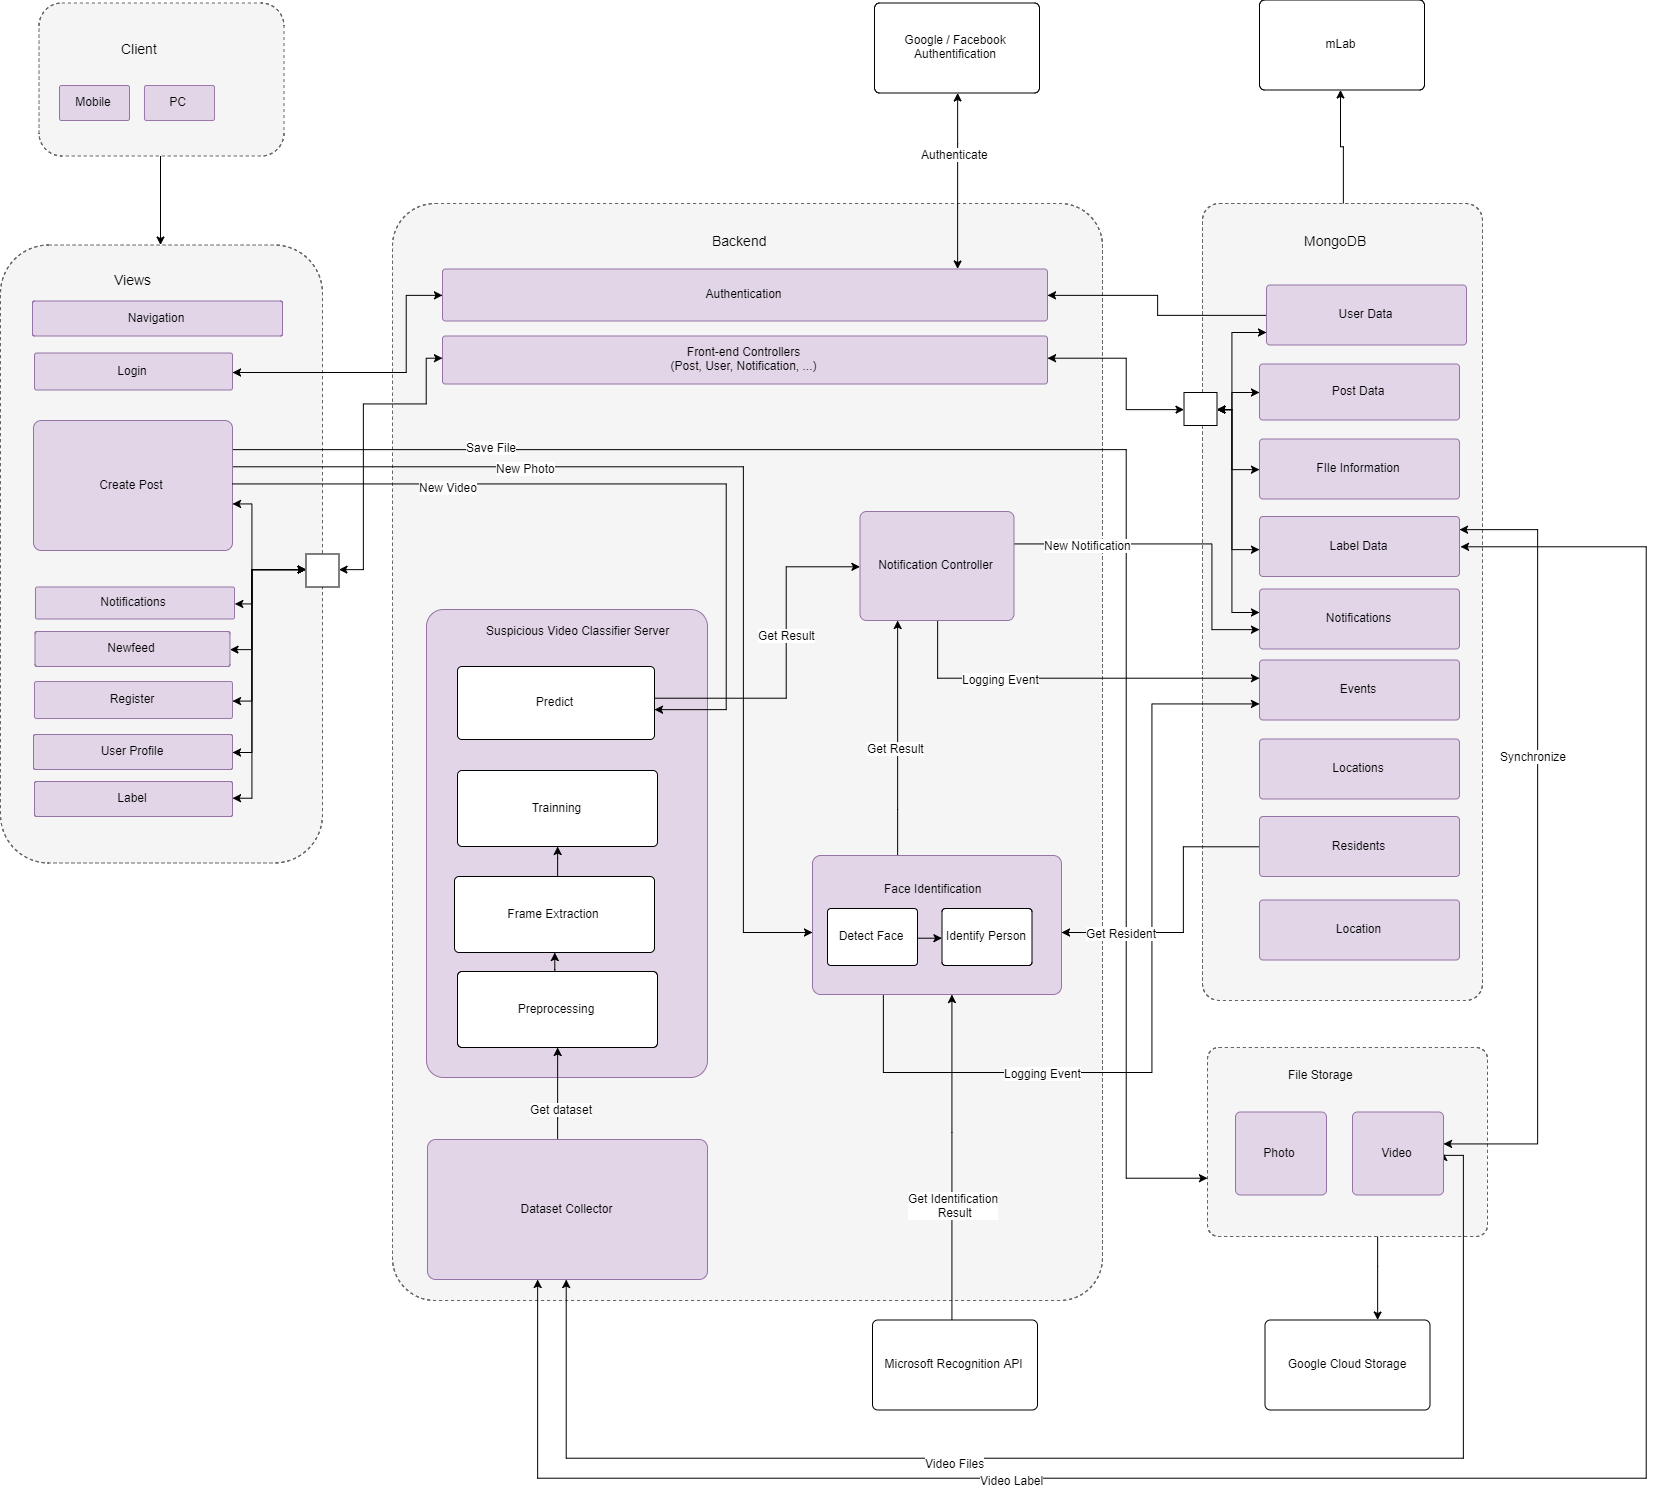
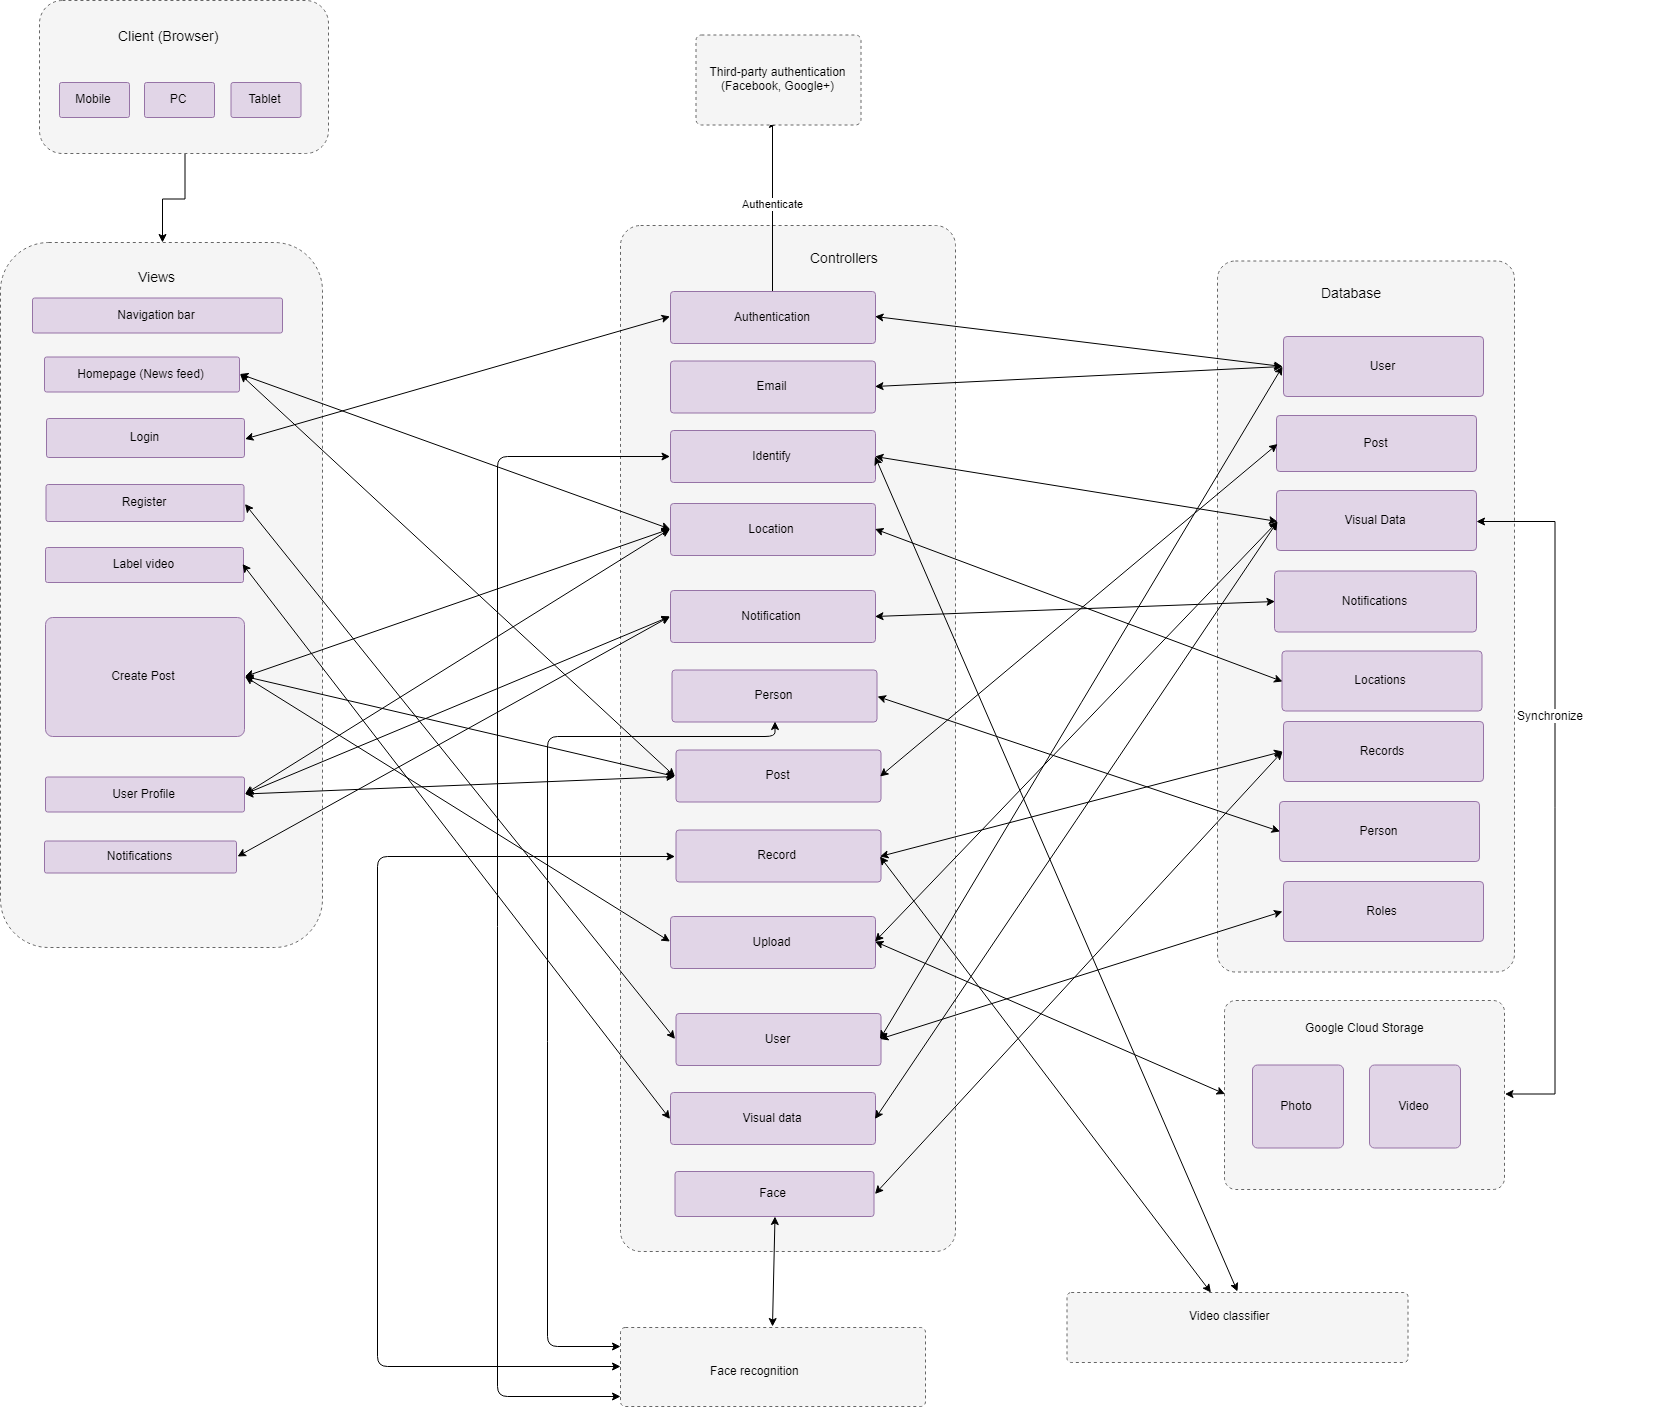
Them system architecture

diff --git a/Chapter4.tex b/Chapter4.tex
@@ -14,6 +14,18 @@ Figure \ref{chap3:system_overview_basic} shows a concise overview of how the sys
     \label{chap3:system_overview_basic}
     \end{figure}
 \end{center}
+
+Figure \ref{chap3:system_architecture} describe the structure of the system architecture more specifically: Outlining the details of each component and interaction between them.
+
+\begin{center}
+    \begin{figure}[H]
+    \centering
+    \includegraphics[width=1\columnwidth]{images/chap3/system_overview_basic.png}
+    \caption{An overview of the system}
+    \label{chap3:system_architecture}
+    \end{figure}
+\end{center}
+
 \subsection{Requirement analysis}
 A requirements analysis is essential to any system. In this section, this thesis defines functional as well as non-function requirements for the system. Use cases and a system overview is also outlined in the following subsections.
 \subsubsection{Types of users}
